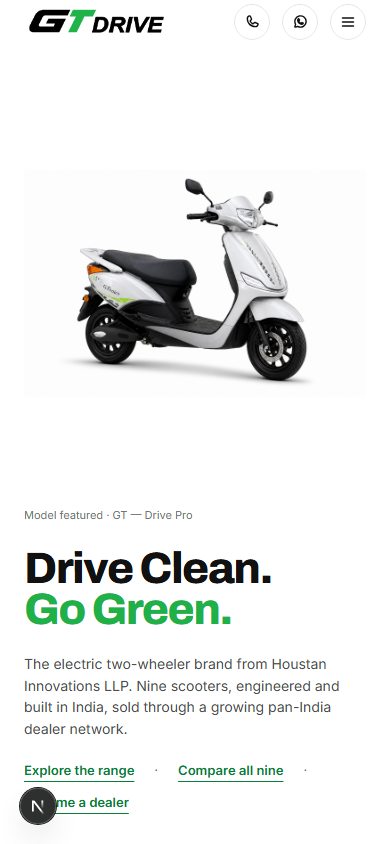
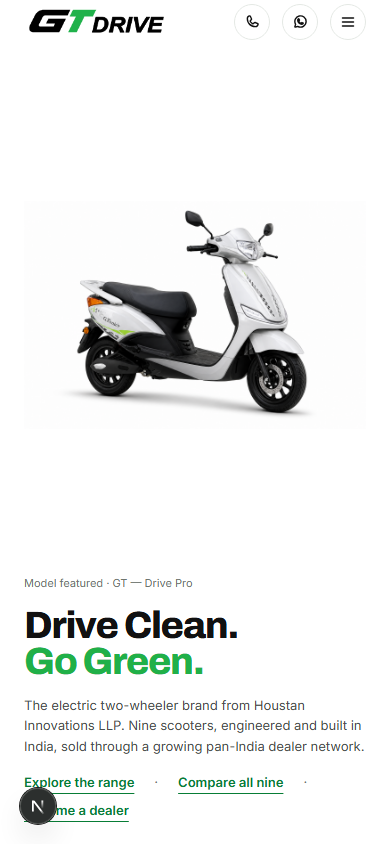
Hero: compact tagline + scooter for real browser viewports (~800px tall)
- Reported: on 1918x900 monitor with Chrome UI, viewport is really ~800px and the tagline was still being cut
- Scooter capped tighter (max-h-42vh mobile, 48vh md; was 52/58vh)
- Tagline scaled down: clamp 38/6.8vw/110px (was 44/9vw/132px)
- Reduced identifier + featured mark font sizes (13/11px vs 14/12px)
- Tightened all zone paddings
- Screenshot script updated to test at 1920x800 and 1440x720 (realistic Chrome heights)
- Verified: full v4 composition fits in first viewport at 1920x800, 1440x720, and mobile 390x844

diff --git a/components/Hero.tsx b/components/Hero.tsx
@@ -5,12 +5,12 @@ export function Hero() {
   return (
     <section
       aria-labelledby="hero-tagline"
-      className="relative flex min-h-[calc(100svh-44px)] flex-col justify-between overflow-hidden bg-white"
+      className="relative flex min-h-[calc(100svh-44px)] flex-col overflow-hidden bg-white"
     >
       {/* UPPER ZONE — the scooter */}
-      <div className="relative mx-auto flex w-full max-w-[var(--container-page)] flex-1 items-center justify-center px-6 pt-6 md:px-10 md:pt-10">
+      <div className="relative mx-auto flex w-full max-w-[var(--container-page)] flex-1 items-center justify-center px-6 pt-4 md:px-10 md:pt-6">
         {/* Top-left identifier — desktop only */}
-        <div className="absolute left-6 top-6 z-10 hidden max-w-[240px] text-[14px] font-medium leading-[1.4] md:left-10 md:top-10 md:block">
+        <div className="absolute left-6 top-4 z-10 hidden max-w-[240px] text-[13px] font-medium leading-[1.4] md:left-10 md:top-6 md:block">
           <div className="text-[var(--color-ink)]">
             <span>G</span>
             <span className="italic text-[var(--color-green)]">T</span>
@@ -21,7 +21,7 @@ export function Hero() {
         </div>
 
         {/* Top-right featured mark — desktop only */}
-        <div className="absolute right-6 top-6 z-10 hidden text-[12px] text-[var(--color-muted)] md:right-10 md:top-10 md:block">
+        <div className="absolute right-6 top-4 z-10 hidden text-[11px] text-[var(--color-muted)] md:right-10 md:top-6 md:block">
           Model featured · GT — Drive Pro
         </div>
 
@@ -33,33 +33,33 @@ export function Hero() {
             width={1536}
             height={1024}
             priority
-            className="max-h-[52vh] w-auto max-w-full object-contain md:max-h-[58vh]"
+            className="h-auto max-h-[42vh] w-auto max-w-full object-contain md:max-h-[48vh]"
           />
         </div>
       </div>
 
       {/* Mobile-only featured mark (below scooter) */}
-      <div className="mx-auto w-full max-w-[var(--container-page)] px-6 pt-2 text-[11px] text-[var(--color-muted)] md:hidden">
+      <div className="mx-auto w-full max-w-[var(--container-page)] px-6 pt-1 text-[11px] text-[var(--color-muted)] md:hidden">
         Model featured · GT — Drive Pro
       </div>
 
       {/* LOWER ZONE — tagline + supporting */}
-      <div className="mx-auto grid w-full max-w-[var(--container-page)] shrink-0 gap-6 px-6 pb-8 pt-6 md:grid-cols-[1.5fr_1fr] md:items-end md:gap-16 md:px-10 md:pb-10 md:pt-4">
+      <div className="mx-auto grid w-full max-w-[var(--container-page)] shrink-0 gap-4 px-6 pb-6 pt-4 md:grid-cols-[1.5fr_1fr] md:items-end md:gap-12 md:px-10 md:pb-8 md:pt-4">
         <h1
           id="hero-tagline"
-          className="text-[clamp(44px,9vw,132px)] leading-[0.92]"
+          className="text-[clamp(38px,6.8vw,110px)] leading-[0.94]"
         >
           <span className="block text-[var(--color-ink)]">Drive Clean.</span>
           <span className="block text-[var(--color-green)]">Go Green.</span>
         </h1>
 
-        <div className="flex flex-col gap-5 md:pb-3">
-          <p className="max-w-md text-[14px] leading-[1.55] text-[var(--color-body)] md:text-[15px]">
+        <div className="flex flex-col gap-4 md:pb-2">
+          <p className="max-w-md text-[13px] leading-[1.55] text-[var(--color-body)] md:text-[14px]">
             The electric two-wheeler brand from Houstan Innovations LLP. Nine
             scooters, engineered and built in India, sold through a growing
             pan-India dealer network.
           </p>
-          <div className="flex flex-wrap items-center gap-x-5 gap-y-3 text-[13px]">
+          <div className="flex flex-wrap items-center gap-x-5 gap-y-2 text-[13px]">
             <Link
               href="/models/"
               className="font-semibold text-[var(--color-green-deep)] underline underline-offset-[6px]"
